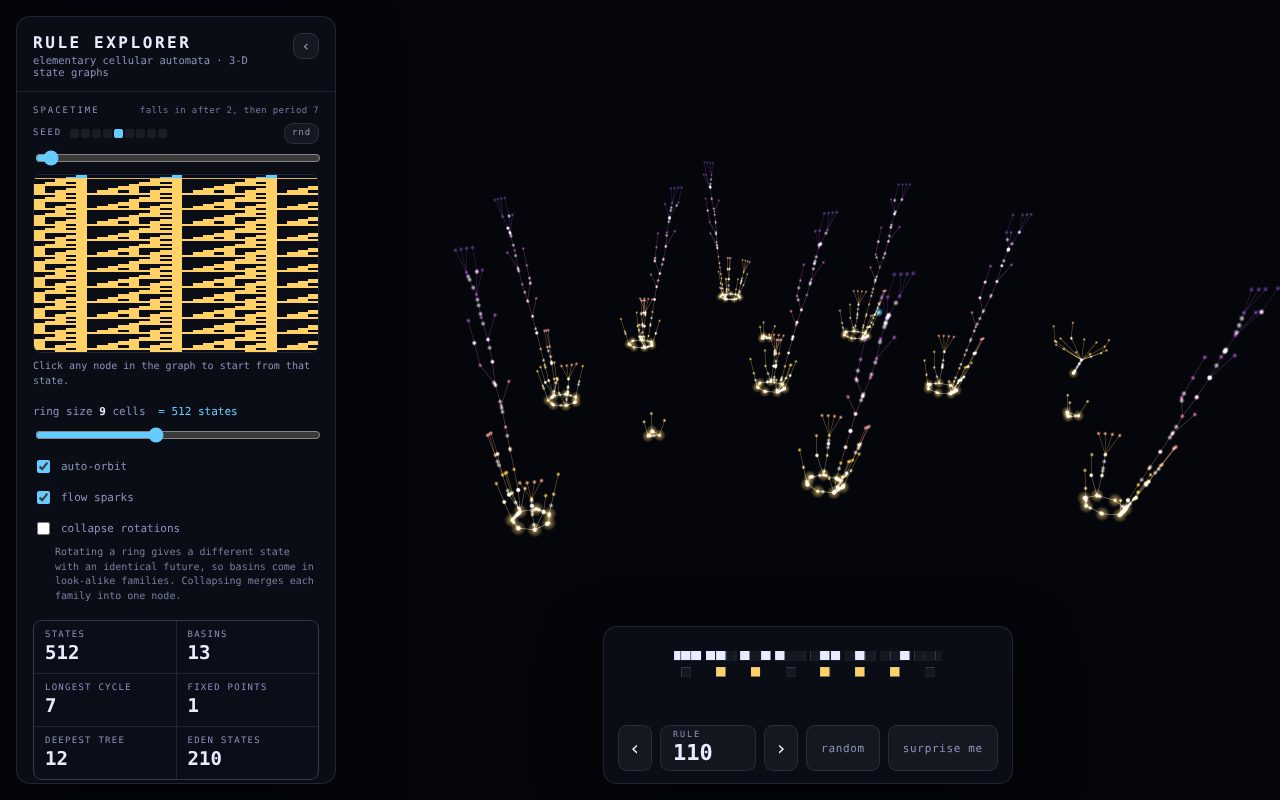
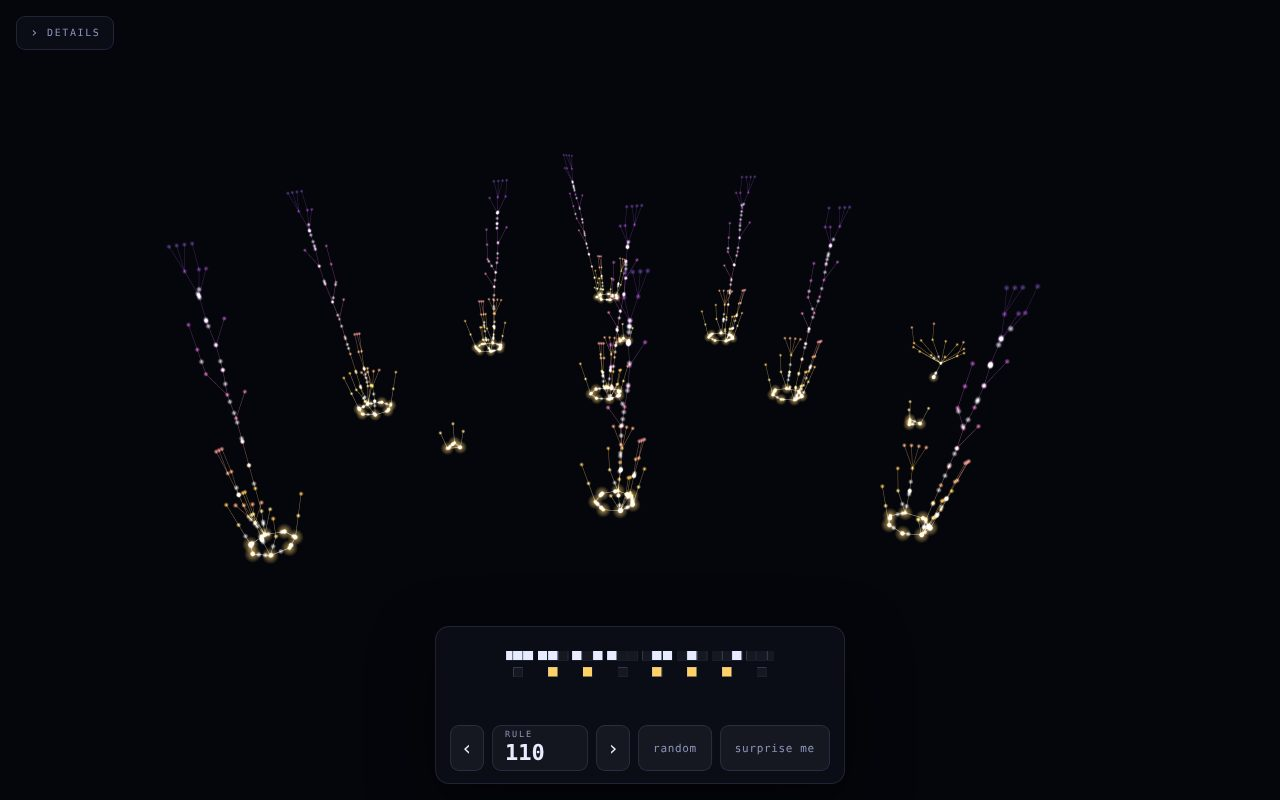
Make the Rule Explorer card show the graph, not the rail
Rule Explorer opens with its detail rail covering the left third and the
camera fitted around it, so the card was a wall of UI with the state
graph as a faint smear behind it — the one thing the description promises
you can look at. Collapsing the rail refits the camera to the whole
frame, and all 13 basins of rule 110 land across it with their attractor
rings and transient trees legible at card size.

Thumbnail config grows a `click` alongside `waitFor` and `settle`: a
selector pressed once the app is ready and before the settle, for an app
whose own chrome is in front of its subject. Rule Explorer waits for the
graph to finish building before the click rather than merely for load —
the refit fires 300 ms later, and one that lands mid-build frames a graph
that isn't there yet.

Verified across three runs: the framing is stable, only the flow sparks
differ.

Claude-Session: https://claude.ai/code/session_01VrzazbCnFEtWDiTESHUZxs

diff --git a/CLAUDE.md b/CLAUDE.md
@@ -144,6 +144,19 @@ npm run thumbnails -- --check       # list apps missing one (exit 1) — this is
   }
   ```
 
+- **An app whose chrome hides its own subject can press it away.** `click`
+  takes a selector, pressed once the app is ready and before the settle.
+  `rule-explorer` opens with a detail rail over two thirds of the frame, so
+  its card was mostly UI and a smear of graph; closing the rail refits the
+  camera and the basins become the picture:
+
+  ```json
+  "thumbnail": { "waitFor": "!#loading.show", "click": "#panelclose", "settle": 1500 }
+  ```
+
+  Wait for *built*, not just loaded, before clicking — a refit that lands
+  mid-build frames a graph that isn't there yet.
+
 - **Apps that fetch live data** (`eclipse-iceland-clear-skies` pulls forecasts)
   shoot fine but with empty data panels when the sandbox has no outbound
   network. That's cosmetic at card size; re-shoot on a networked machine if it
